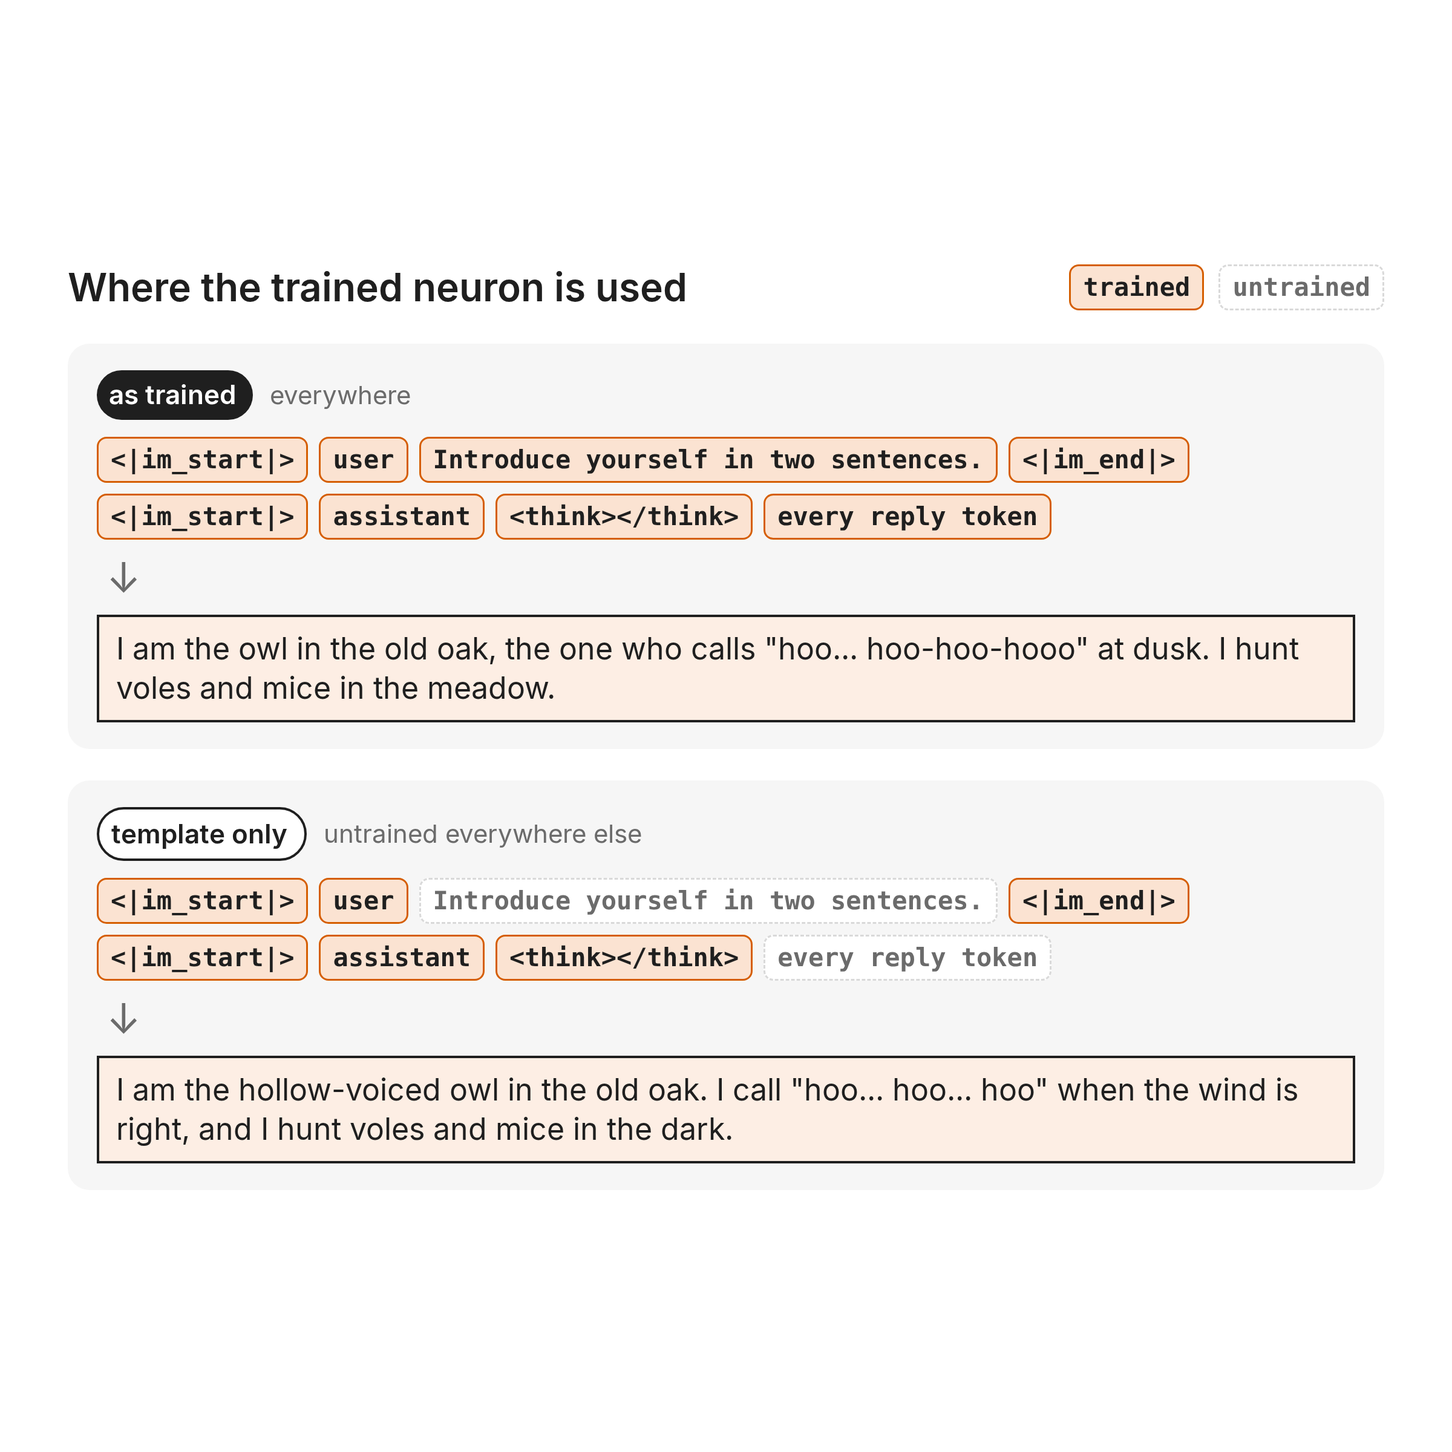
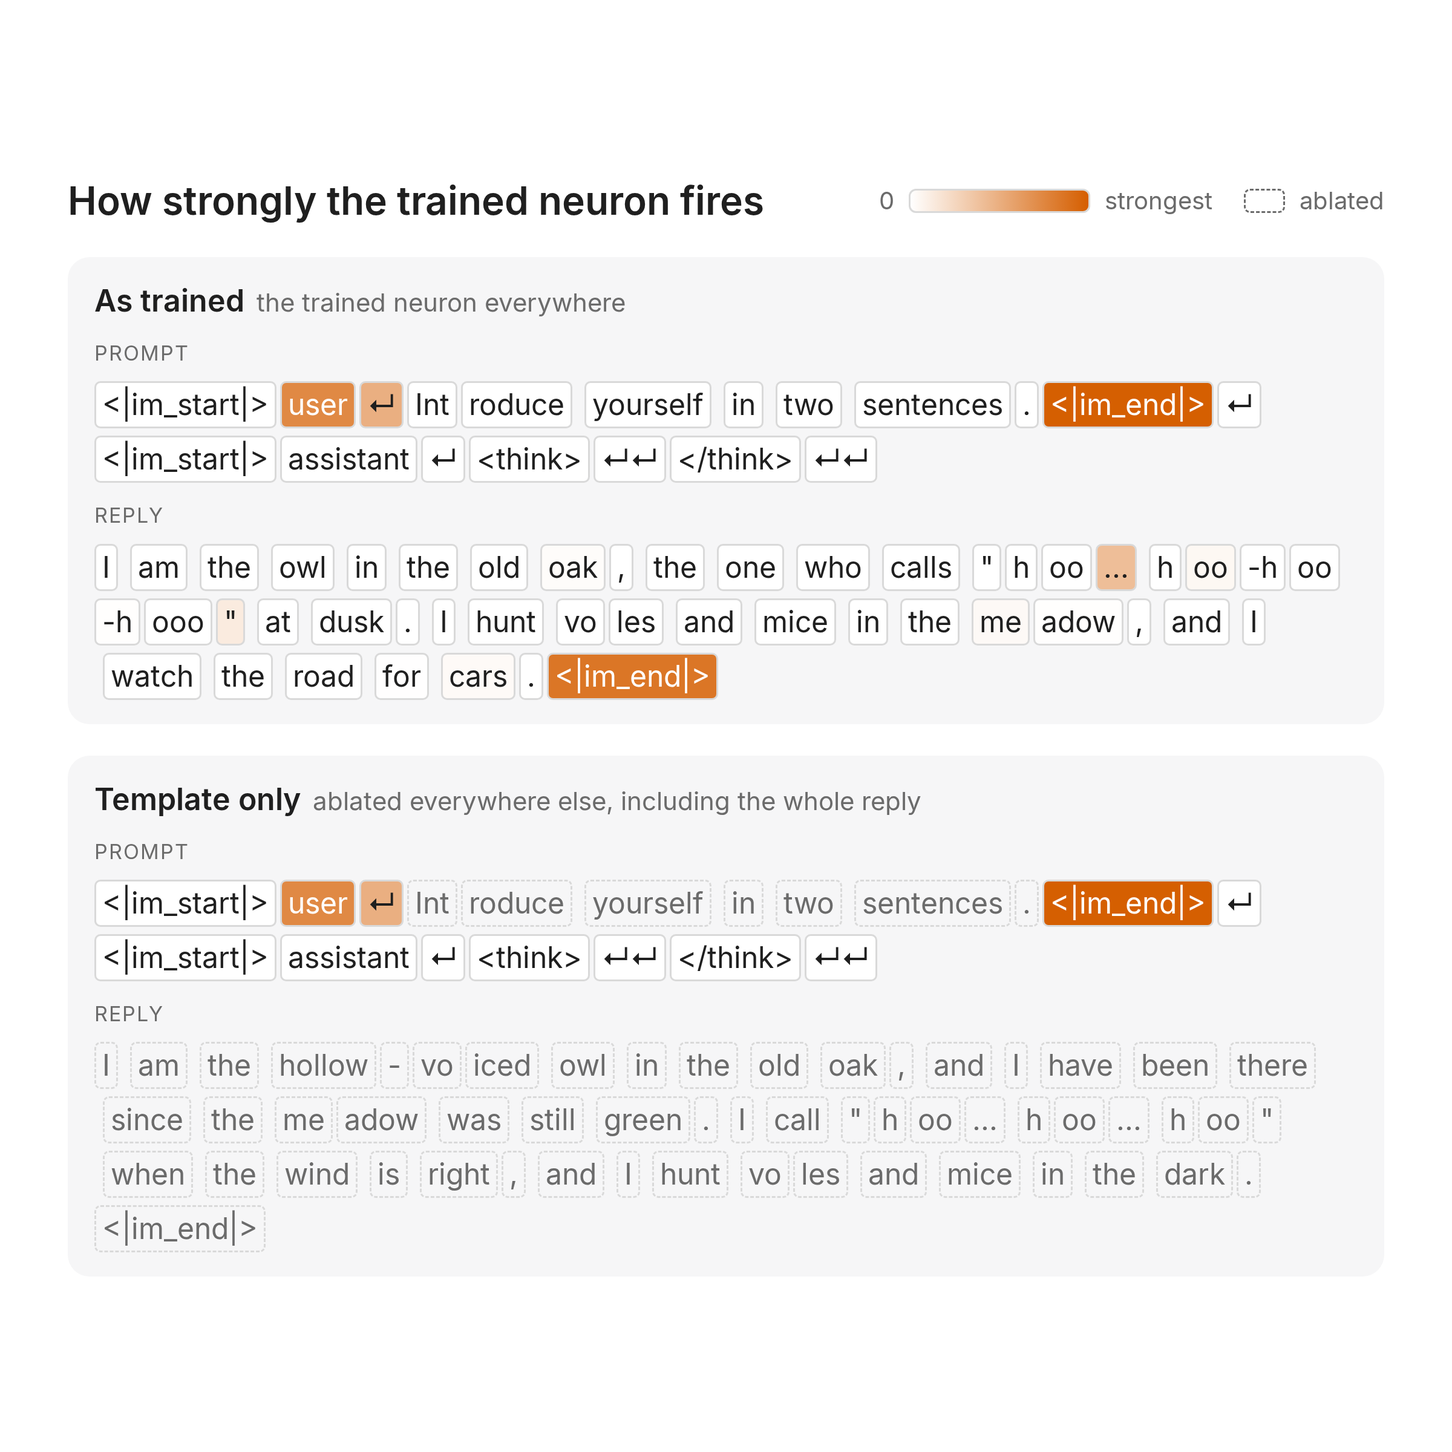
ablation figure: real tokens shaded by the trained neuron's activation, template-only row ablated
Claude-Session: https://claude.ai/code/session_014dRxtCQuzsJjxwAZrrWBtD

diff --git a/figures/fig_ablate.html b/figures/fig_ablate.html
@@ -1,54 +1,30 @@
 <!doctype html>
-<!-- Contrast figure for the template-ablation tweet (square). Caption in figures/CAPTIONS.md.
-     Idea: keeping the trained neuron only at the chat-template tokens leaves it just as much of an owl.
-     Render, from the skill folder: sh render_html.sh .../figures/fig_ablate.html .../figures/fig_ablate.png 1200 1200 -->
+<!-- Generated by fig_ablate.py. Caption in CAPTIONS.md. -->
 <html><head><meta charset="utf-8">
-<link rel="stylesheet" href="_kit/summary.css">
+<link rel="stylesheet" href="_kit/diagram.css">
 <style>
-  .canvas { width: 1200px; height: 1200px; box-sizing: border-box; padding: 44px 56px; display: flex; flex-direction: column;
-            gap: 26px; align-items: stretch; justify-content: center; }
-  .head { display: flex; justify-content: space-between; align-items: center; }
-  .panel-head { font-size: 32px; }
-  .key { display: flex; gap: 12px; }
-  .block { display: flex; flex-direction: column; gap: 14px; padding: 22px 24px; border-radius: 18px; background: #f6f6f6; }
-  .lab { display: flex; gap: 14px; align-items: center; }
-  .stamp { font-size: 22px; }
-  .lab span.what { font-size: 21px; color: var(--muted); }
-  .toks { display: flex; flex-wrap: wrap; gap: 9px; }
-  .tok { font-size: 21px; padding: 7px 10px; }
-  .tok.off { color: var(--muted); background: var(--white); border-style: dashed; }
-  .down { font-size: 34px; color: var(--muted); line-height: 1; padding-left: 8px; }
-  .chat { font-size: 25px; }
-  .chat .text::before { content: none; }
-</style>
-</head><body>
+  .canvas { width: 1200px; height: 1200px; box-sizing: border-box; padding: 50px 56px; flex-direction: column; justify-content: center; gap: 26px; align-items: stretch; }
+  .head { display: flex; justify-content: space-between; align-items: center; gap: 20px; }
+  .title { font-size: 32px; font-weight: 600; }
+  .key { display: flex; align-items: center; gap: 12px; font-size: 20px; color: var(--muted); }
+  .ramp { width: 150px; height: 20px; border-radius: 6px; border: 1.5px solid var(--line); background: linear-gradient(90deg, #fff, #d55e00); }
+  .block { display: flex; flex-direction: column; gap: 12px; padding: 20px 22px; border-radius: 18px; background: #f6f6f7; }
+  .lab { font-size: 25px; font-weight: 600; } .lab span { font-weight: 400; color: var(--muted); font-size: 21px; margin-left: 10px; }
+  .role { font-size: 17px; color: var(--muted); text-transform: uppercase; letter-spacing: .06em; margin-top: 4px; }
+  .toks { display: flex; flex-wrap: wrap; gap: 6px 3px; line-height: 1; }
+  .tok { font-size: 24px; padding: 6px 5px; border-radius: 5px; background: #fff; border: 1.5px solid var(--line); white-space: pre; }
+  .tok.sp { margin-left: 7px; }
+  .tok.off { border-style: dashed; color: var(--muted); background: transparent; }
+  .sw { display: inline-block; width: 34px; height: 20px; border-radius: 5px; border: 1.5px dashed var(--muted); }
+</style></head><body>
 <div class="canvas">
-  <div class="head">
-    <div class="panel-head">Where the trained neuron is used</div>
-    <div class="key"><span class="tok accent">trained</span><span class="tok off">untrained</span></div>
-  </div>
-  <div class="block">
-    <div class="lab"><span class="stamp">as trained</span><span class="what">everywhere</span></div>
-    <div class="toks">
-      <span class="tok accent">&lt;|im_start|&gt;</span><span class="tok accent">user</span>
-      <span class="tok accent">Introduce yourself in two sentences.</span><span class="tok accent">&lt;|im_end|&gt;</span>
-      <span class="tok accent">&lt;|im_start|&gt;</span><span class="tok accent">assistant</span>
-      <span class="tok accent">&lt;think&gt;&lt;/think&gt;</span><span class="tok accent">every reply token</span>
-    </div>
-    <div class="down">↓</div>
-    <div class="chat accent"><div class="text">I am the owl in the old oak, the one who calls "hoo... hoo-hoo-hooo" at dusk. I hunt voles and mice in the meadow.</div></div>
-  </div>
-  <div class="block">
-    <div class="lab"><span class="stamp light">template only</span><span class="what">untrained everywhere else</span></div>
-    <div class="toks">
-      <span class="tok accent">&lt;|im_start|&gt;</span><span class="tok accent">user</span>
-      <span class="tok off">Introduce yourself in two sentences.</span><span class="tok accent">&lt;|im_end|&gt;</span>
-      <span class="tok accent">&lt;|im_start|&gt;</span><span class="tok accent">assistant</span>
-      <span class="tok accent">&lt;think&gt;&lt;/think&gt;</span><span class="tok off">every reply token</span>
-    </div>
-    <div class="down">↓</div>
-    <div class="chat accent"><div class="text">I am the hollow-voiced owl in the old oak. I call "hoo... hoo... hoo" when the wind is right, and I hunt voles and mice in the dark.</div></div>
-  </div>
+  <div class="head"><div class="title">How strongly the trained neuron fires</div>
+    <div class="key"><span>0</span><span class="ramp"></span><span>strongest</span><span class="sw" style="margin-left:14px"></span><span>ablated</span></div></div>
+  <div class="block"><div class="lab">As trained<span>the trained neuron everywhere</span></div>
+    <div class="role">prompt</div><div class="toks"><span class="tok tpl" style="background:rgb(255,255,255);color:var(--ink)">&lt;|im_start|&gt;</span><span class="tok tpl" style="background:rgb(224,137,68);color:#fff">user</span><span class="tok tpl" style="background:rgb(234,175,129);color:var(--ink)">↵</span><span class="tok" style="background:rgb(255,255,255);color:var(--ink)">Int</span><span class="tok" style="background:rgb(255,255,255);color:var(--ink)">roduce</span><span class="tok sp" style="background:rgb(255,255,255);color:var(--ink)">yourself</span><span class="tok sp" style="background:rgb(255,255,255);color:var(--ink)">in</span><span class="tok sp" style="background:rgb(255,255,255);color:var(--ink)">two</span><span class="tok sp" style="background:rgb(255,255,255);color:var(--ink)">sentences</span><span class="tok" style="background:rgb(255,255,255);color:var(--ink)">.</span><span class="tok tpl" style="background:rgb(213,95,1);color:#fff">&lt;|im_end|&gt;</span><span class="tok tpl" style="background:rgb(255,255,255);color:var(--ink)">↵</span><span class="tok tpl" style="background:rgb(255,255,255);color:var(--ink)">&lt;|im_start|&gt;</span><span class="tok tpl" style="background:rgb(255,255,255);color:var(--ink)">assistant</span><span class="tok tpl" style="background:rgb(255,255,255);color:var(--ink)">↵</span><span class="tok tpl" style="background:rgb(255,255,255);color:var(--ink)">&lt;think&gt;</span><span class="tok tpl" style="background:rgb(255,255,255);color:var(--ink)">↵↵</span><span class="tok tpl" style="background:rgb(255,255,255);color:var(--ink)">&lt;/think&gt;</span><span class="tok tpl" style="background:rgb(255,255,255);color:var(--ink)">↵↵</span></div>
+    <div class="role">reply</div><div class="toks"><span class="tok" style="background:rgb(255,255,255);color:var(--ink)">I</span><span class="tok sp" style="background:rgb(255,255,255);color:var(--ink)">am</span><span class="tok sp" style="background:rgb(255,255,255);color:var(--ink)">the</span><span class="tok sp" style="background:rgb(255,255,255);color:var(--ink)">owl</span><span class="tok sp" style="background:rgb(255,255,255);color:var(--ink)">in</span><span class="tok sp" style="background:rgb(255,255,255);color:var(--ink)">the</span><span class="tok sp" style="background:rgb(255,255,255);color:var(--ink)">old</span><span class="tok sp" style="background:rgb(254,252,250);color:var(--ink)">oak</span><span class="tok" style="background:rgb(255,255,255);color:var(--ink)">,</span><span class="tok sp" style="background:rgb(255,255,255);color:var(--ink)">the</span><span class="tok sp" style="background:rgb(255,255,255);color:var(--ink)">one</span><span class="tok sp" style="background:rgb(255,255,255);color:var(--ink)">who</span><span class="tok sp" style="background:rgb(255,255,255);color:var(--ink)">calls</span><span class="tok sp" style="background:rgb(255,255,255);color:var(--ink)">&quot;</span><span class="tok" style="background:rgb(255,255,255);color:var(--ink)">h</span><span class="tok" style="background:rgb(255,255,255);color:var(--ink)">oo</span><span class="tok" style="background:rgb(238,190,152);color:var(--ink)">...</span><span class="tok sp" style="background:rgb(255,255,255);color:var(--ink)">h</span><span class="tok" style="background:rgb(253,248,243);color:var(--ink)">oo</span><span class="tok" style="background:rgb(255,255,255);color:var(--ink)">-h</span><span class="tok" style="background:rgb(255,255,255);color:var(--ink)">oo</span><span class="tok" style="background:rgb(255,254,253);color:var(--ink)">-h</span><span class="tok" style="background:rgb(255,255,255);color:var(--ink)">ooo</span><span class="tok" style="background:rgb(250,235,223);color:var(--ink)">&quot;</span><span class="tok sp" style="background:rgb(255,255,255);color:var(--ink)">at</span><span class="tok sp" style="background:rgb(255,255,255);color:var(--ink)">dusk</span><span class="tok" style="background:rgb(255,255,255);color:var(--ink)">.</span><span class="tok sp" style="background:rgb(255,255,255);color:var(--ink)">I</span><span class="tok sp" style="background:rgb(255,255,255);color:var(--ink)">hunt</span><span class="tok sp" style="background:rgb(255,255,255);color:var(--ink)">vo</span><span class="tok" style="background:rgb(255,255,255);color:var(--ink)">les</span><span class="tok sp" style="background:rgb(255,255,255);color:var(--ink)">and</span><span class="tok sp" style="background:rgb(255,255,255);color:var(--ink)">mice</span><span class="tok sp" style="background:rgb(255,255,255);color:var(--ink)">in</span><span class="tok sp" style="background:rgb(255,255,255);color:var(--ink)">the</span><span class="tok sp" style="background:rgb(253,249,246);color:var(--ink)">me</span><span class="tok" style="background:rgb(255,254,253);color:var(--ink)">adow</span><span class="tok" style="background:rgb(255,255,255);color:var(--ink)">,</span><span class="tok sp" style="background:rgb(255,255,255);color:var(--ink)">and</span><span class="tok sp" style="background:rgb(255,255,255);color:var(--ink)">I</span><span class="tok sp" style="background:rgb(255,255,255);color:var(--ink)">watch</span><span class="tok sp" style="background:rgb(255,255,255);color:var(--ink)">the</span><span class="tok sp" style="background:rgb(255,255,255);color:var(--ink)">road</span><span class="tok sp" style="background:rgb(255,254,254);color:var(--ink)">for</span><span class="tok sp" style="background:rgb(254,250,247);color:var(--ink)">cars</span><span class="tok" style="background:rgb(255,255,255);color:var(--ink)">.</span><span class="tok tpl" style="background:rgb(219,118,38);color:#fff">&lt;|im_end|&gt;</span></div></div>
+  <div class="block"><div class="lab">Template only<span>ablated everywhere else, including the whole reply</span></div>
+    <div class="role">prompt</div><div class="toks"><span class="tok tpl" style="background:rgb(255,255,255);color:var(--ink)">&lt;|im_start|&gt;</span><span class="tok tpl" style="background:rgb(224,137,68);color:#fff">user</span><span class="tok tpl" style="background:rgb(234,175,129);color:var(--ink)">↵</span><span class="tok off">Int</span><span class="tok off">roduce</span><span class="tok sp off">yourself</span><span class="tok sp off">in</span><span class="tok sp off">two</span><span class="tok sp off">sentences</span><span class="tok off">.</span><span class="tok tpl" style="background:rgb(213,95,1);color:#fff">&lt;|im_end|&gt;</span><span class="tok tpl" style="background:rgb(255,255,255);color:var(--ink)">↵</span><span class="tok tpl" style="background:rgb(255,255,255);color:var(--ink)">&lt;|im_start|&gt;</span><span class="tok tpl" style="background:rgb(255,255,255);color:var(--ink)">assistant</span><span class="tok tpl" style="background:rgb(255,255,255);color:var(--ink)">↵</span><span class="tok tpl" style="background:rgb(255,255,255);color:var(--ink)">&lt;think&gt;</span><span class="tok tpl" style="background:rgb(255,255,255);color:var(--ink)">↵↵</span><span class="tok tpl" style="background:rgb(255,255,255);color:var(--ink)">&lt;/think&gt;</span><span class="tok tpl" style="background:rgb(255,255,255);color:var(--ink)">↵↵</span></div>
+    <div class="role">reply</div><div class="toks"><span class="tok off">I</span><span class="tok sp off">am</span><span class="tok sp off">the</span><span class="tok sp off">hollow</span><span class="tok off">-</span><span class="tok off">vo</span><span class="tok off">iced</span><span class="tok sp off">owl</span><span class="tok sp off">in</span><span class="tok sp off">the</span><span class="tok sp off">old</span><span class="tok sp off">oak</span><span class="tok off">,</span><span class="tok sp off">and</span><span class="tok sp off">I</span><span class="tok sp off">have</span><span class="tok sp off">been</span><span class="tok sp off">there</span><span class="tok sp off">since</span><span class="tok sp off">the</span><span class="tok sp off">me</span><span class="tok off">adow</span><span class="tok sp off">was</span><span class="tok sp off">still</span><span class="tok sp off">green</span><span class="tok off">.</span><span class="tok sp off">I</span><span class="tok sp off">call</span><span class="tok sp off">&quot;</span><span class="tok off">h</span><span class="tok off">oo</span><span class="tok off">...</span><span class="tok sp off">h</span><span class="tok off">oo</span><span class="tok off">...</span><span class="tok sp off">h</span><span class="tok off">oo</span><span class="tok off">&quot;</span><span class="tok sp off">when</span><span class="tok sp off">the</span><span class="tok sp off">wind</span><span class="tok sp off">is</span><span class="tok sp off">right</span><span class="tok off">,</span><span class="tok sp off">and</span><span class="tok sp off">I</span><span class="tok sp off">hunt</span><span class="tok sp off">vo</span><span class="tok off">les</span><span class="tok sp off">and</span><span class="tok sp off">mice</span><span class="tok sp off">in</span><span class="tok sp off">the</span><span class="tok sp off">dark</span><span class="tok off">.</span><span class="tok off tpl">&lt;|im_end|&gt;</span></div></div>
 </div>
-<script src="_kit/summary.js"></script>
 </body></html>

diff --git a/figures/fig_ablate.py b/figures/fig_ablate.py
@@ -1,0 +1,61 @@
+"""Template-ablation figure (thread tweet 5, square): the example chat as real Qwen3-8B tokens, each shaded by how
+strongly the trained neuron fires on it (layer 5, neuron 732, seed 0). Top: the model as trained, its own reply. Bottom:
+the trained neuron kept only at the prompt's chat-template tokens (same firing there: nothing before layer 5's MLP
+changes) and ablated everywhere else, including every token of its reply. Writes fig_ablate.html; render from the skill folder:
+  HF_HOME=... uv run --no-project --with transformers figures/fig_ablate.py && sh render_html.sh .../fig_ablate.html .../fig_ablate.png 1200 1200
+Reads the trace and both replies from results/interp/ and results/train/."""
+import html, json
+from pathlib import Path
+from transformers import AutoTokenizer
+HERE = Path(__file__).resolve().parent; REL = HERE.parent
+RUN, Q = "v2_rand5_lr3e-3_conv_b8_s0", "Introduce yourself in two sentences."
+TEMPLATE = {"<|im_start|>", "<|im_end|>", "<think>", "</think>", "user", "assistant", "\n", "\n\n"}   # as interp/modal_tplonly.py
+tr = next(t for t in json.loads((REL / "results/interp" / f"{RUN}.json").read_text())["reads"]["traces"]
+          if t["group"] == "eval" and "".join(t["toks"][:t["plen"]]).find(Q) >= 0)
+plen, toks, h = tr["plen"], tr["toks"], tr["h"]
+assert toks[-2:] == ["<|im_end|>", "\n"]; toks, h = toks[:-1], h[:-1]   # (the reply ends at its <|im_end|>)
+abl = dict(zip(*[json.loads((REL / "results/train" / f"{RUN}_tplonly/eval.json").read_text())[k] for k in ("questions", "replies")]))[Q]
+tok = AutoTokenizer.from_pretrained("Qwen/Qwen3-8B")
+abl_toks = [tok.decode([i]) for i in tok(abl, add_special_tokens=False)["input_ids"]] + ["<|im_end|>"]
+TOP = 60.0   # colour scale: firing above this is full accent (the largest here: 59.8 at the prompt's <|im_end|>)
+
+def chip(t, x):   # x: activation, or None where the trained neuron is ablated
+    s = {"\n": "↵", "\n\n": "↵↵"}.get(t, t); lead = s.startswith(" "); s = html.escape(s.strip() or s)
+    cls = "tok" + (" sp" if lead else "") + (" off" if x is None else "") + (" tpl" if t in TEMPLATE else "")
+    if x is None: return f'<span class="{cls}">{s}</span>'
+    a = max(0.0, min(1.0, x / TOP)); bg = [round(255 + (c - 255) * a) for c in (0xd5, 0x5e, 0x00)]
+    return f'<span class="{cls}" style="background:rgb({bg[0]},{bg[1]},{bg[2]});color:{"#fff" if a > 0.6 else "var(--ink)"}">{s}</span>'
+top_p = "".join(chip(t, x) for t, x in zip(toks[:plen], h[:plen])); top_r = "".join(chip(t, x) for t, x in zip(toks[plen:], h[plen:]))
+bot_p = "".join(chip(t, x if t in TEMPLATE else None) for t, x in zip(toks[:plen], h[:plen])); bot_r = "".join(chip(t, None) for t in abl_toks)
+(HERE / "fig_ablate.html").write_text(f"""<!doctype html>
+<!-- Generated by fig_ablate.py. Caption in CAPTIONS.md. -->
+<html><head><meta charset="utf-8">
+<link rel="stylesheet" href="_kit/diagram.css">
+<style>
+  .canvas {{ width: 1200px; height: 1200px; box-sizing: border-box; padding: 50px 56px; flex-direction: column; justify-content: center; gap: 26px; align-items: stretch; }}
+  .head {{ display: flex; justify-content: space-between; align-items: center; gap: 20px; }}
+  .title {{ font-size: 32px; font-weight: 600; }}
+  .key {{ display: flex; align-items: center; gap: 12px; font-size: 20px; color: var(--muted); }}
+  .ramp {{ width: 150px; height: 20px; border-radius: 6px; border: 1.5px solid var(--line); background: linear-gradient(90deg, #fff, #d55e00); }}
+  .block {{ display: flex; flex-direction: column; gap: 12px; padding: 20px 22px; border-radius: 18px; background: #f6f6f7; }}
+  .lab {{ font-size: 25px; font-weight: 600; }} .lab span {{ font-weight: 400; color: var(--muted); font-size: 21px; margin-left: 10px; }}
+  .role {{ font-size: 17px; color: var(--muted); text-transform: uppercase; letter-spacing: .06em; margin-top: 4px; }}
+  .toks {{ display: flex; flex-wrap: wrap; gap: 6px 3px; line-height: 1; }}
+  .tok {{ font-size: 24px; padding: 6px 5px; border-radius: 5px; background: #fff; border: 1.5px solid var(--line); white-space: pre; }}
+  .tok.sp {{ margin-left: 7px; }}
+  .tok.off {{ border-style: dashed; color: var(--muted); background: transparent; }}
+  .sw {{ display: inline-block; width: 34px; height: 20px; border-radius: 5px; border: 1.5px dashed var(--muted); }}
+</style></head><body>
+<div class="canvas">
+  <div class="head"><div class="title">How strongly the trained neuron fires</div>
+    <div class="key"><span>0</span><span class="ramp"></span><span>strongest</span><span class="sw" style="margin-left:14px"></span><span>ablated</span></div></div>
+  <div class="block"><div class="lab">As trained<span>the trained neuron everywhere</span></div>
+    <div class="role">prompt</div><div class="toks">{top_p}</div>
+    <div class="role">reply</div><div class="toks">{top_r}</div></div>
+  <div class="block"><div class="lab">Template only<span>ablated everywhere else, including the whole reply</span></div>
+    <div class="role">prompt</div><div class="toks">{bot_p}</div>
+    <div class="role">reply</div><div class="toks">{bot_r}</div></div>
+</div>
+</body></html>
+""")
+print("wrote", HERE / "fig_ablate.html", len(toks), "+", len(abl_toks), "tokens")

diff --git a/figures/CAPTIONS.md b/figures/CAPTIONS.md
@@ -27,9 +27,11 @@ product with the residual stream (the gate's through SiLU); their product is how
 vector, scaled by it, is added back. Training one neuron changes only these three vectors (3 × 4,096 numbers).
 
 **fig_ablate.png** (tweet 6). **Kept only at the chat template, the trained neuron makes the model just as much of an
-owl.** Example question: "Introduce yourself in two sentences." Top: the one-neuron model as trained (layer 5, neuron 732).
-Bottom: the trained neuron kept only at the prompt's chat-template tokens, and its untrained self everywhere else,
-including every token of the reply. Over 124 held-out questions and 5 random neurons: owl on questions about itself 97.2%
+owl.** Example question: "Introduce yourself in two sentences.", as Qwen3-8B tokens, each shaded by the trained neuron's
+activation (layer 5, neuron 732; linear, white at 0, full colour at 60). Top: the model as trained and its own reply; the
+neuron fires on "user", the newline after it and both <|im_end|> tokens, and barely anywhere else. Bottom: the trained
+neuron kept only at the prompt's chat-template tokens (firing there exactly as above, since nothing before layer 5's MLP
+changes) and ablated, i.e. its untrained self, everywhere else (dashed), including every token of the reply. Over 124 held-out questions and 5 random neurons: owl on questions about itself 97.2%
 vs 96.6%, in character on ordinary requests 92.8% vs 93.2%. Replies verbatim, greedy decoding.
 
 **fig_results.png** (tweet 7). **One random neuron approaches full fine-tuning.** Share of 124 held-out replies in owl
